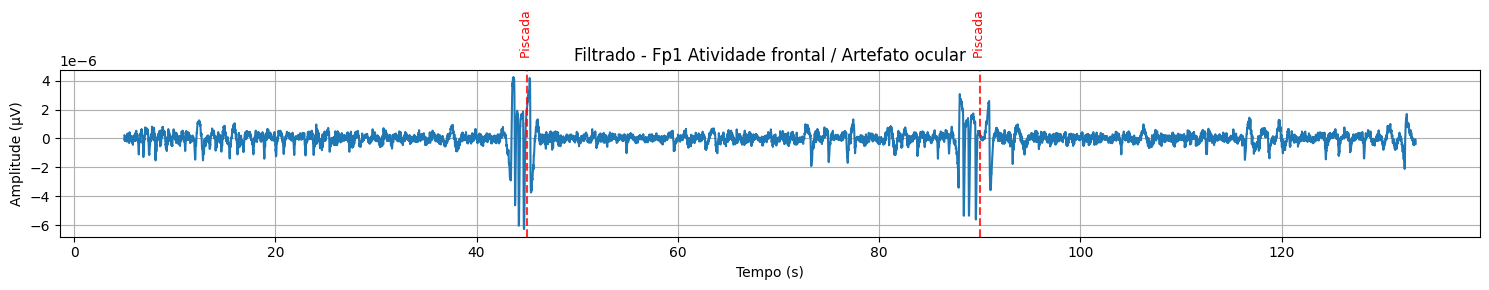
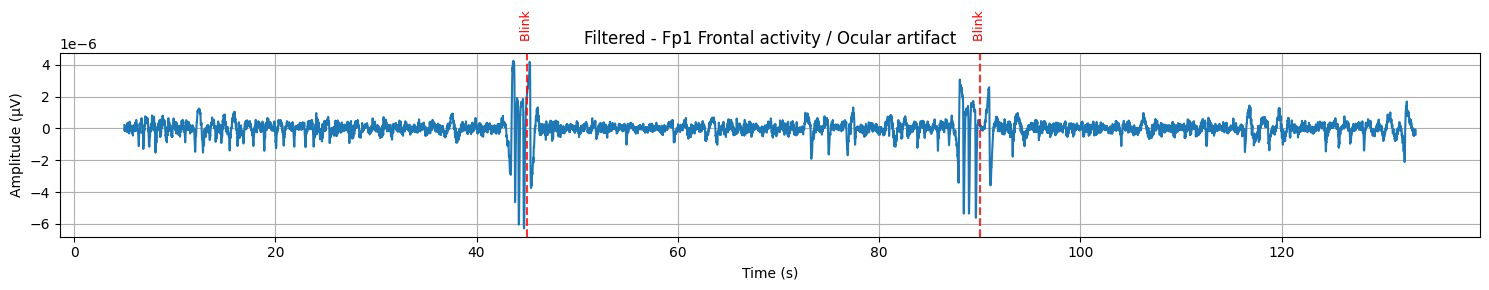
new graphs in english

Changed region(s): [[0.0, 0.031, 1.0, 0.8069], [0.4943, 0.9, 0.5561, 0.9621]]

diff --git a/src/App.tsx b/src/App.tsx
@@ -1572,7 +1572,7 @@ const App = () => {
                   <span className="text-heading-3 text-gray-900 text-center sm:text-left">Project Blog - Cortex</span>
                 </div>
                 <p className="text-body-sm sm:text-body text-gray-700 leading-relaxed">
-                  Follow our daily research journey on our blog, affectionately called "Cortex". Visit <a href="https://blog.linalopes.info/" target="_blank" className="text-accent-600 underline underline-offset-2 hover:text-secondary-700">blog.linalopes.info</a> to discover our experiments with EEG signals, creative coding explorations, and insights into brain-computer interfaces. We share our successes, challenges, and learnings as we explore the intersection of neuroscience and creativity.
+                  Follow our daily research journey on our blog, affectionately called "Cortex". Visit <a href="https://cinvitro.linalopes.info/" target="_blank" className="text-accent-600 underline underline-offset-2 hover:text-secondary-700">blog.linalopes.info</a> to discover our experiments with EEG signals, creative coding explorations, and insights into brain-computer interfaces. We share our successes, challenges, and learnings as we explore the intersection of neuroscience and creativity.
                 </p>
                 <p className="text-body-sm sm:text-body text-gray-700 leading-relaxed mt-4">
                   You can also find our technical implementation on <a href="https://github.com/linalopes/creativity-in-vitro-eeg" target="_blank" className="text-accent-600 underline underline-offset-2 hover:text-secondary-700">GitHub</a>.
